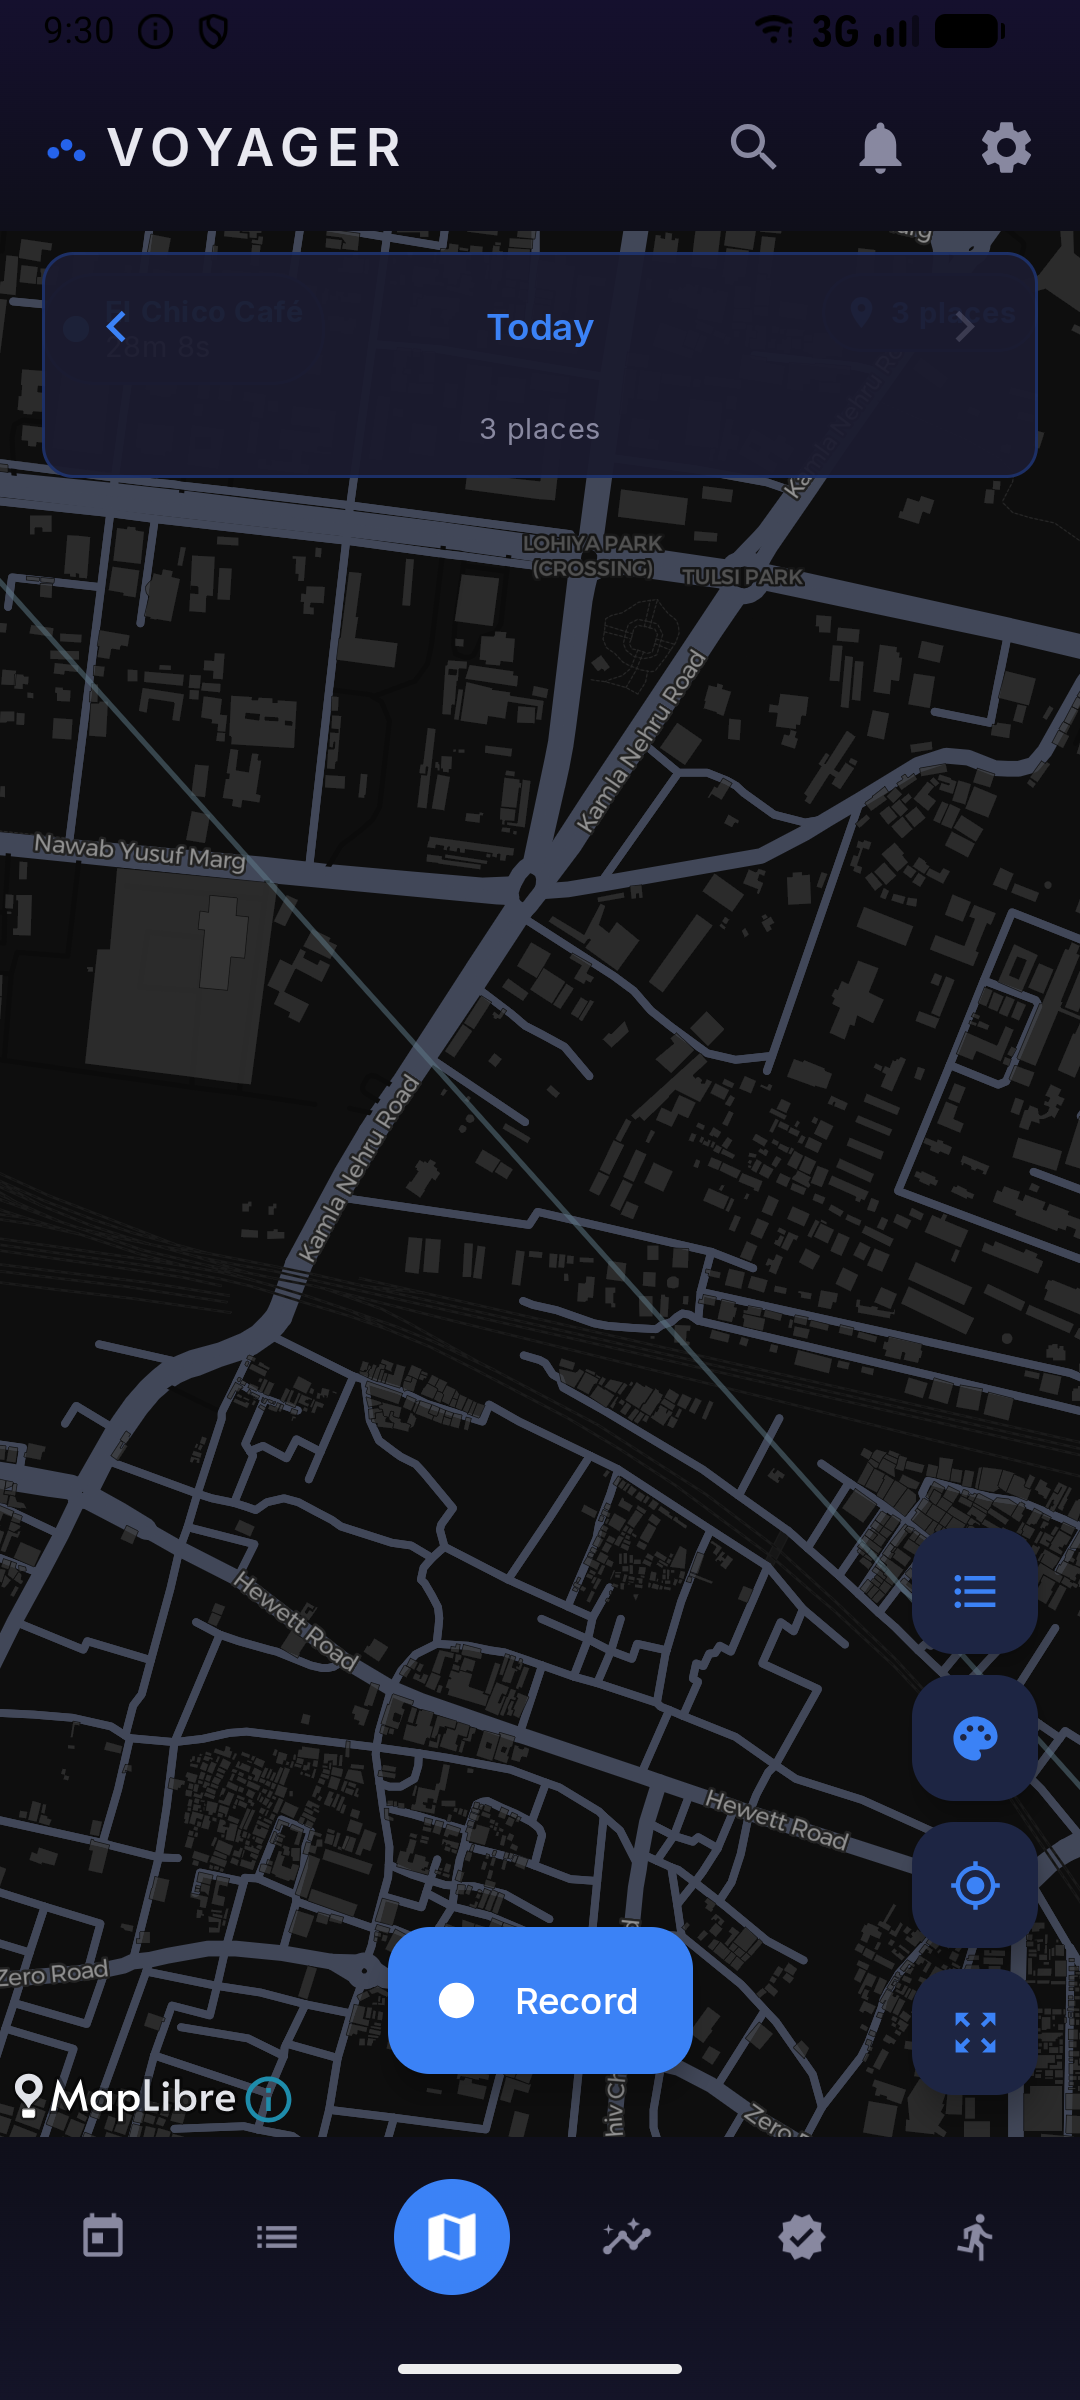
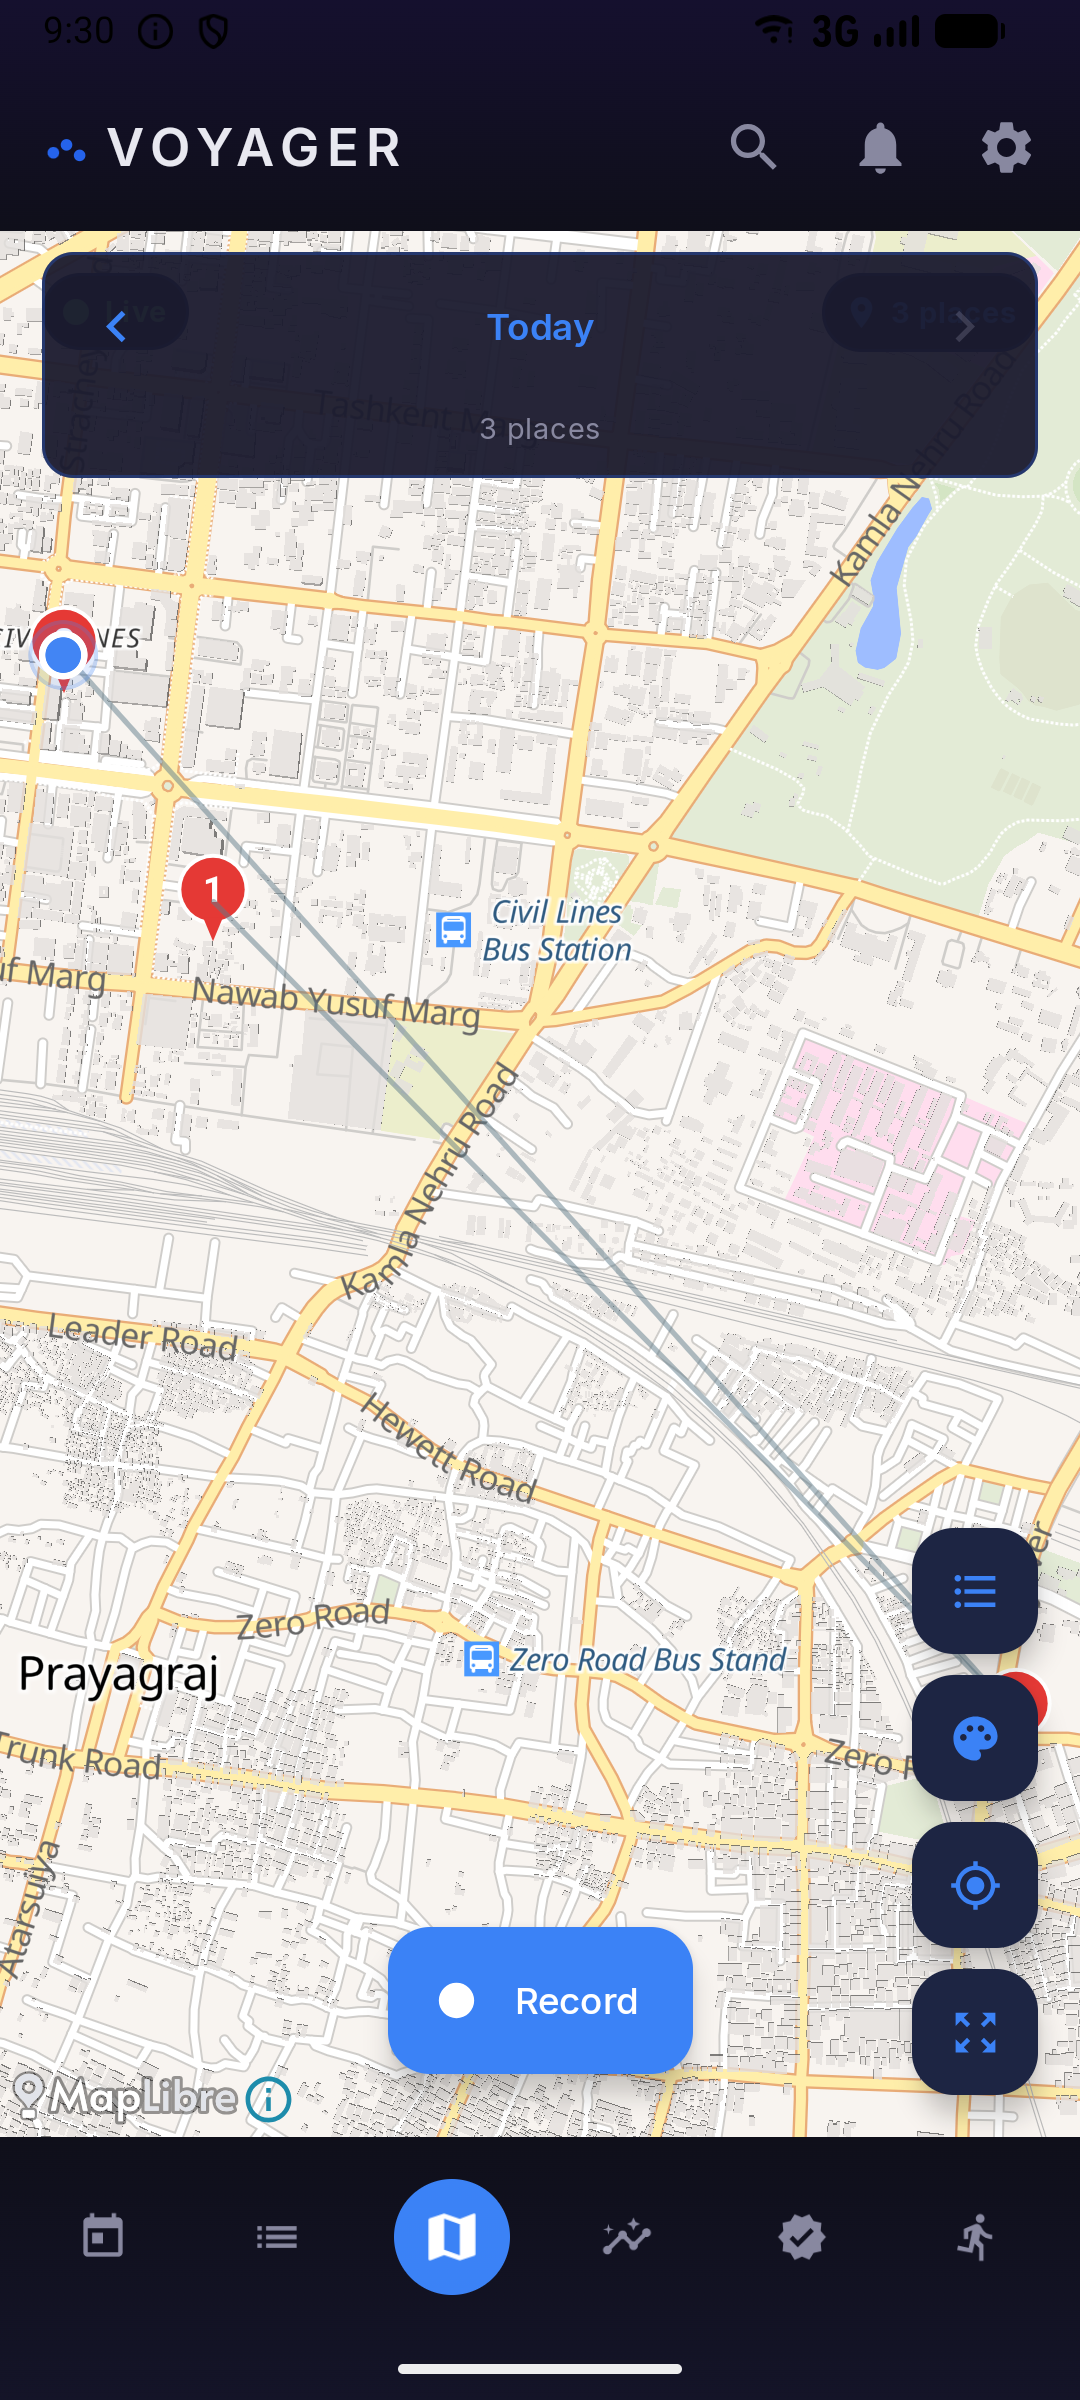
revert(map): light OpenFreeMap basemap; re-capture light Map + Activity screenshots
Per request, the map is light only again (OpenFreeMap 'liberty'), dropping the
CARTO dark basemap and its fair-use limits. Map and Activity-detail screenshots
(raw + framed + site) re-captured on the light basemap for consistency.

diff --git a/app/src/main/java/com/cosmiclaboratory/voyager/platform/map/MapLibreMapEngine.kt b/app/src/main/java/com/cosmiclaboratory/voyager/platform/map/MapLibreMapEngine.kt
@@ -55,10 +55,8 @@ class MapLibreMapEngine @Inject constructor() : MapEngine {
     )
 
     companion object {
-        // CARTO dark-matter — OSM-detail dark basemap (no API key) that matches Voyager's
-        // OLED dark UI. Light alternative if ever needed:
-        // "https://tiles.openfreemap.org/styles/liberty" (OpenFreeMap, no rate limits).
-        private const val STYLE_URL = "https://basemaps.cartocdn.com/gl/dark-matter-gl-style/style.json"
+        // OpenFreeMap — full OSM detail, no API key, no rate limits (light basemap).
+        private const val STYLE_URL = "https://tiles.openfreemap.org/styles/liberty"
         private const val MARKER_TAP_RADIUS_PX = 30.0
         private const val ARROW_ICON_ID = "route-arrow-icon"
         // Current location indicator layer IDs
